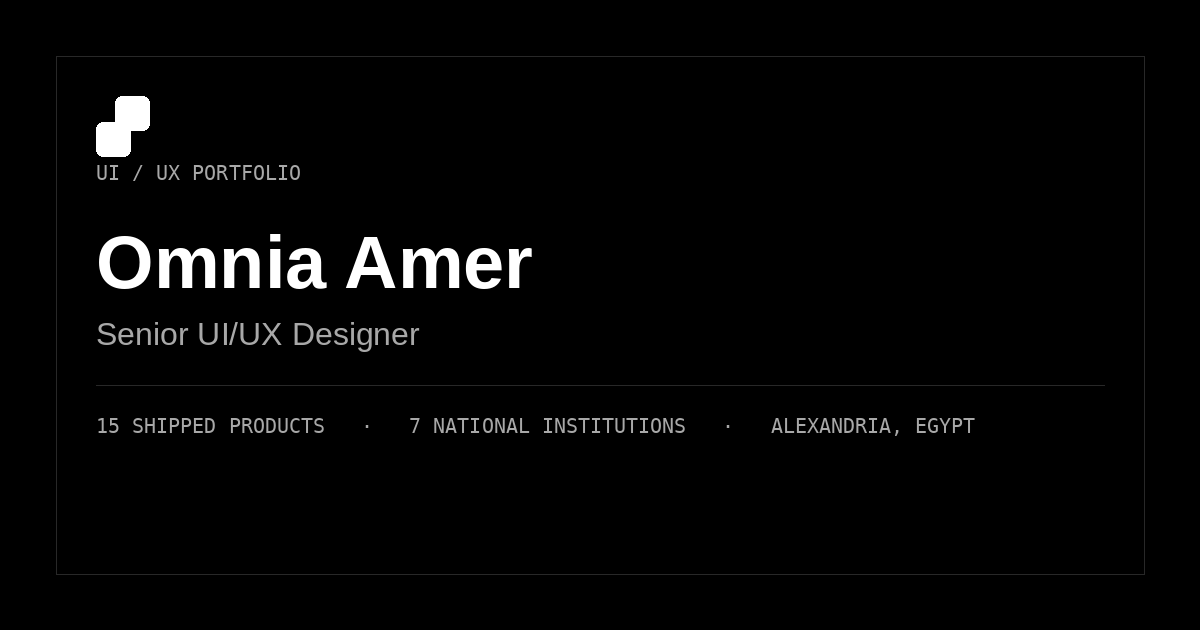
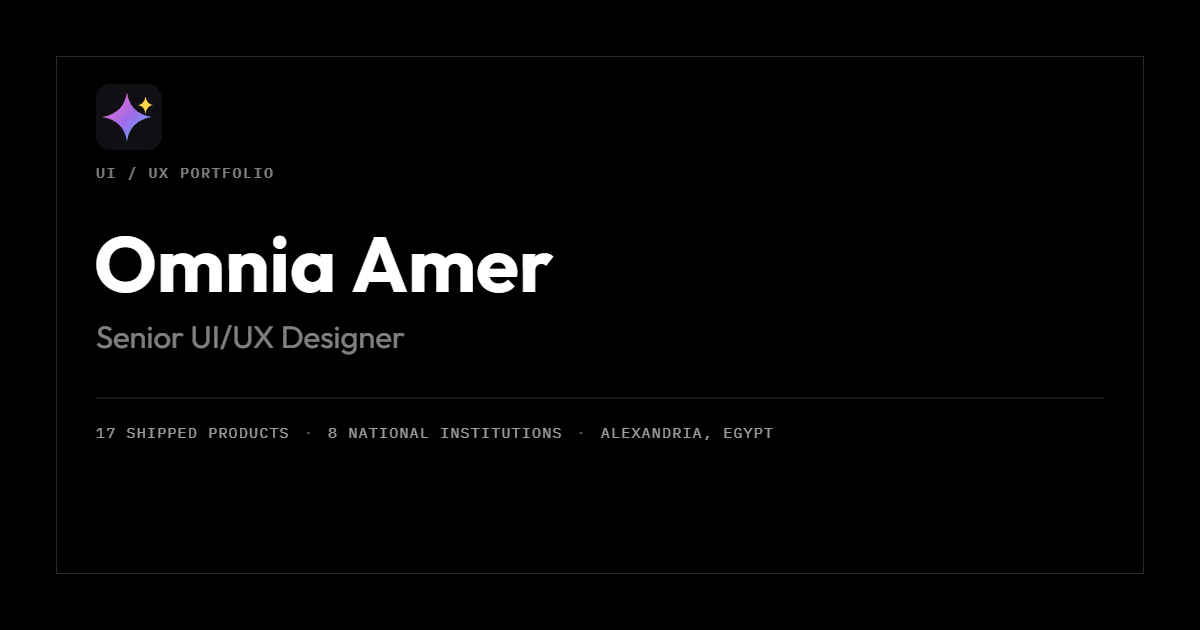
Regenerate og-image.png with current 17/8 numbers
Rebuilt the social share card: "17 SHIPPED PRODUCTS · 8 NATIONAL
INSTITUTIONS" (was 15 / 7) and swapped the old placeholder mark for
the current gradient-sparkle favicon. Same 1200x630 layout, black
ground, inset frame. og:image / twitter:image URLs get ?v=2 so
scrapers re-fetch instead of serving the stale card.

diff --git a/ar/index.html b/ar/index.html
@@ -19,13 +19,13 @@
 <meta property="og:url" content="https://omnia-amer.github.io/portfolio/ar/">
 <meta property="og:title" content="أمنية عامر — مصمّمة واجهات وتجربة مستخدم أول">
 <meta property="og:description" content="تصميم واجهات للمؤسسات التي يضع الناس ثقتهم فيها. خمس سنوات في تحويل المتطلبات الحكومية والمؤسسية المعقّدة وثنائية اللغة (عربي/إنجليزي) إلى منتجات تُطلَق بثقة — عبر قطر والسعودية والإمارات.">
-<meta property="og:image" content="https://omnia-amer.github.io/portfolio/og-image.png">
+<meta property="og:image" content="https://omnia-amer.github.io/portfolio/og-image.png?v=2">
 <meta property="og:image:width" content="1200">
 <meta property="og:image:height" content="630">
 <meta name="twitter:card" content="summary_large_image">
 <meta name="twitter:title" content="أمنية عامر — مصمّمة واجهات وتجربة مستخدم أول">
 <meta name="twitter:description" content="تصميم واجهات حكومية ومؤسسية ثنائية اللغة (عربي/إنجليزي) عبر قطر والسعودية والإمارات. 17 منتجًا لأكثر من 8 مؤسسات في القطاع العام.">
-<meta name="twitter:image" content="https://omnia-amer.github.io/portfolio/og-image.png">
+<meta name="twitter:image" content="https://omnia-amer.github.io/portfolio/og-image.png?v=2">
 <meta http-equiv="refresh" content="0; url=/portfolio/?lang=ar">
 <script>
   // send a human straight into the Arabic app, keeping any deep-link hash

diff --git a/index.html b/index.html
@@ -24,7 +24,7 @@
 <meta property="og:url" content="https://omnia-amer.github.io/portfolio/">
 <meta property="og:title" content="Omnia Amer — Senior UI/UX Designer">
 <meta property="og:description" content="Senior UI/UX Designer turning complex, bilingual (Arabic / English) government and enterprise requirements into products teams ship with confidence — 17 delivered, 8 for national institutions.">
-<meta property="og:image" content="https://omnia-amer.github.io/portfolio/og-image.png">
+<meta property="og:image" content="https://omnia-amer.github.io/portfolio/og-image.png?v=2">
 <meta property="og:image:width" content="1200">
 <meta property="og:image:height" content="630">
 <meta property="og:locale:alternate" content="ar_AR">
@@ -35,7 +35,7 @@
 <meta name="twitter:card" content="summary_large_image">
 <meta name="twitter:title" content="Omnia Amer — Senior UI/UX Designer">
 <meta name="twitter:description" content="Senior UI/UX Designer turning complex, bilingual (Arabic / English) government and enterprise requirements into products teams ship with confidence — 17 delivered, 8 for national institutions.">
-<meta name="twitter:image" content="https://omnia-amer.github.io/portfolio/og-image.png">
+<meta name="twitter:image" content="https://omnia-amer.github.io/portfolio/og-image.png?v=2">
 <script type="application/ld+json">
 {
   "@context": "https://schema.org",
